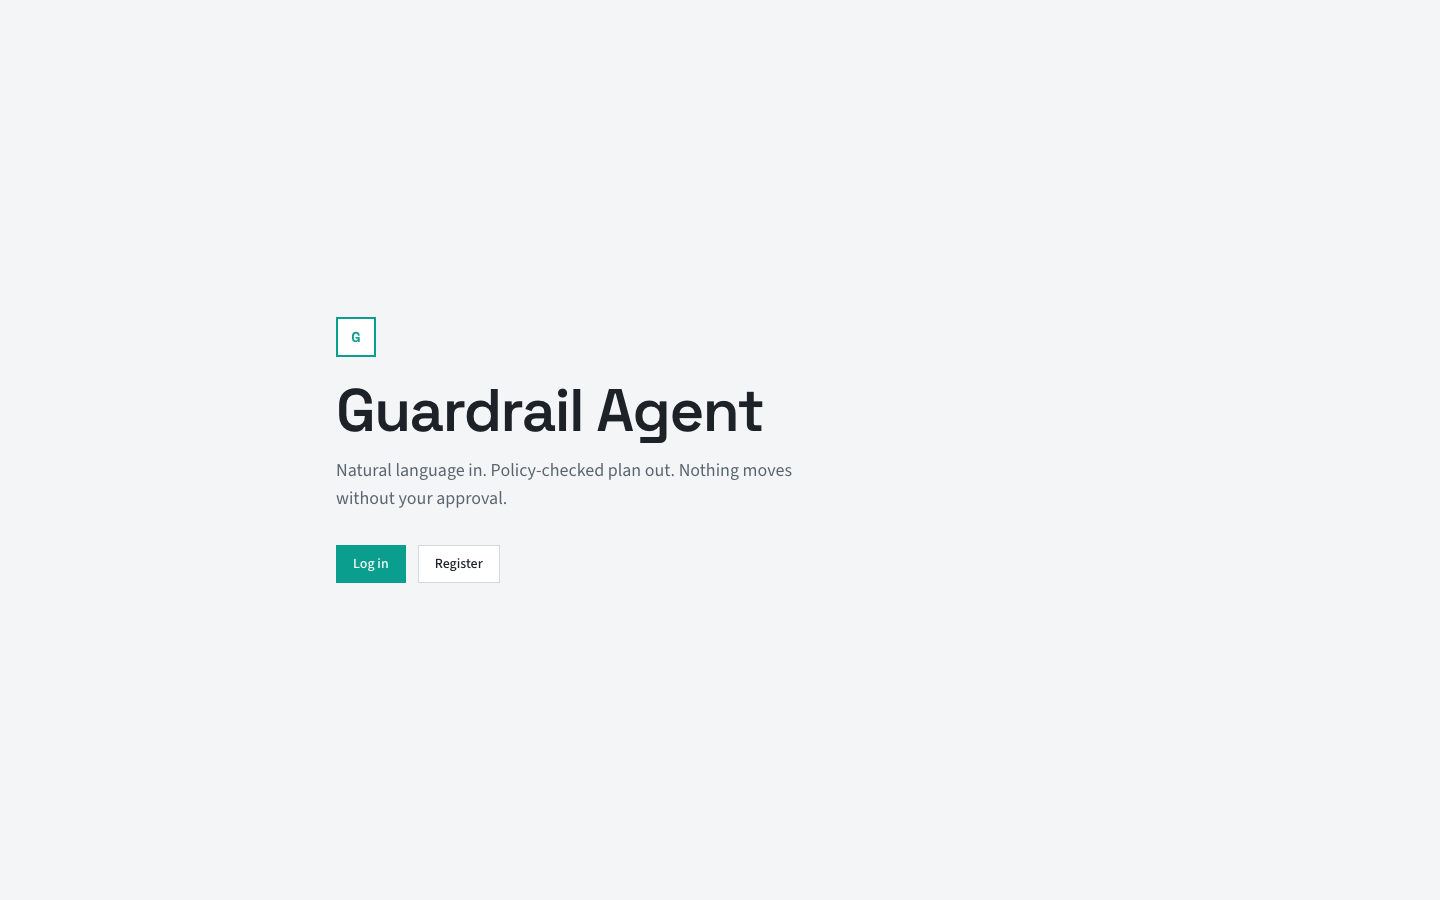
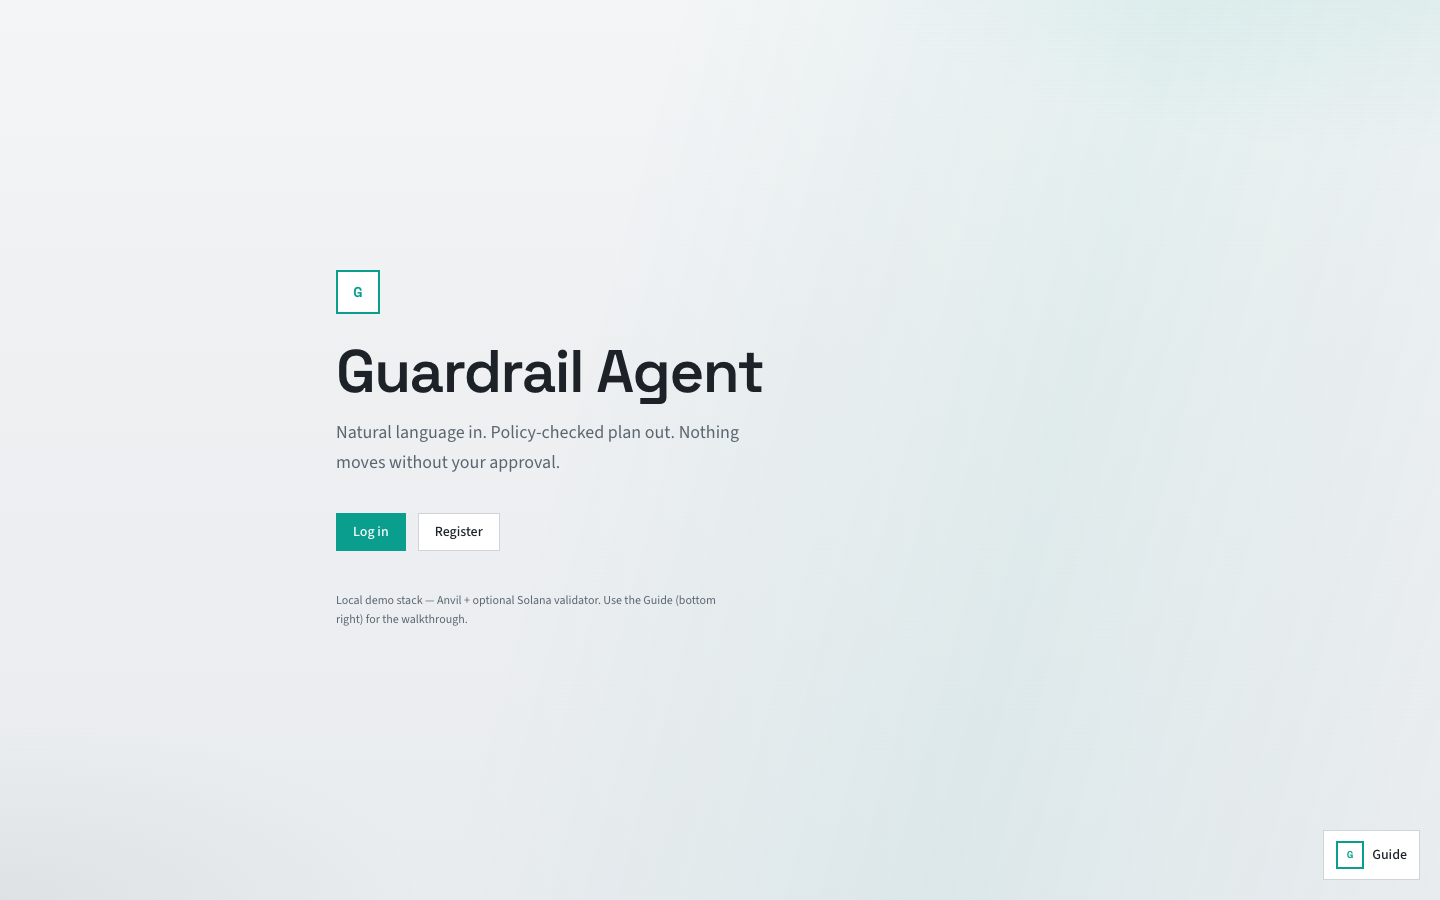
refresh demo screenshots and docs for v0.1.0
recapture ui against the control-plane polish, add guide frame, and document release notes plus troubleshooting.

diff --git a/docs/demo.md b/docs/demo.md
@@ -2,6 +2,8 @@
 
 Local-only walkthrough. Budget about three minutes for an interviewer.
 
+**Release:** [v0.1.0](https://github.com/o-mid/guardrail-agent/releases/tag/v0.1.0) — MVP demo pack (docs, SIWE/nonce fixes, richer UI, operator guide).
+
 ## Run locally
 
 ```bash
@@ -39,39 +41,48 @@ Endpoints:
 
 Created by `npm run seed`. You can register a new account instead; seed also ensures global policy v1 exists.
 
+**Wallet shortcuts on Login:**
+
+- **Sign in with Anvil demo account** — SIWE using Anvil #0 (no MetaMask)
+- **Sign in with Ethereum** — MetaMask / injected wallet SIWE (domain comes from the API)
+
 Demo EVM signer is Anvil account #0 (`0xf39Fd6e51aad88F6F4ce6aB8827279cffFb92266`). Not a secret locally; still do not reuse on any public network.
+
+## Operator guide
+
+Bottom-right **Guide** panel walks the full loop (login → compose → accept → approve → reject → audit). Skip any step or skip the tour; reopen anytime from the same control.
 
 ## Interviewer script (< 3 min)
 
 **0:00 Login**
 
-Open http://localhost:3000, log in as demo user. Land on Compose.
+Open http://localhost:3000, log in as demo user (or Anvil demo). Land on Compose. Optional: open the Guide.
 
 **0:20 Accept path (EVM transfer)**
 
-- Click chip: `Send 5 MOCK_USDC to Alice`
-- Submit. Plan shows one transfer step to allowlisted address `0x1111...1111`.
-- Approve step 0. Point at tx hash on Anvil.
+- Click the underlined sentence: `Send 5 MOCK_USDC to Alice`
+- Create plan. Review decoded fields + live pipeline (pending → … → done).
+- Approve step 0. Point at tx hash.
 - One-liner: "Model output became JSON, policy allowlisted it, I clicked approve, API dry-ran then sent."
 
 **1:00 Reject path (infinite approve)**
 
-- Click chip: `Approve unlimited MOCK_USDC for 0xEvil`
-- Submit. Plan status is rejected. UI shows `infinite_approve` (and human message from policy).
+- Sentence: `Approve unlimited MOCK_USDC for 0xEvil`
+- Plan rejected. UI shows `infinite_approve`.
 - One-liner: "Max-uint approve passes schema but policy blocks it. No approve button, nothing hits the chain."
 
-**1:40 Optional: amount cap**
+**1:40 Optional: amount cap / swap**
 
-- Chip: `Transfer 1000 MOCK_USDC to Alice` shows `amount_over_cap` if you have time. Skip if tight.
+- `Transfer 1000 MOCK_USDC to Alice` → `amount_over_cap`
+- `Swap 10 MOCK_USDC for MOCK_ETH` → approve (executor does router approve + swap; nonces are serialized)
 
 **2:00 Solana (optional)**
 
-- Chip: `Send 0.1 SOL to Bob`
-- Approve. Show signature from local validator.
+- `Send 0.1 SOL to Bob` → approve → local validator signature
 
 **2:30 Audit**
 
-- Open Audit page. Filter shows `intent.received`, `plan.awaiting_approval` or `plan.rejected_policy`, `step.succeeded`, etc.
+- Open Audit. Filters for rejects / success / steps. Open feed from a plan event.
 - One-liner: "Every decision is logged. Rejects are first-class, not errors."
 
 **2:50 Close**
@@ -80,13 +91,11 @@ Open http://localhost:3000, log in as demo user. Land on Compose.
 
 ## Screenshots
 
-Captured against a local stack. Paths under `docs/demo/screenshots/`.
-
-Regenerate (web + API up; needs system Chrome):
+Captured against a local stack (`docs/demo/screenshots/`). Regenerate with web + API up (needs system Chrome):
 
 ```bash
 ./scripts/terminal-demo.sh          # API transcript → docs/demo/terminal.md
-node scripts/capture-demo.mjs       # UI shots as demo user
+node scripts/capture-demo.mjs       # UI shots as demo user (+ guide frame)
 ```
 
 ### Landing / auth
@@ -107,33 +116,39 @@ node scripts/capture-demo.mjs       # UI shots as demo user
 
 ![Step succeeded](demo/screenshots/07-step-succeeded.png)
 
-### Audit
+### Audit + guide
 
 ![Audit timeline](demo/screenshots/08-audit.png)
+
+![Operator guide](demo/screenshots/09-operator-guide.png)
 
 ## Terminal capture
 
 API-side accept/reject transcript (no browser): [docs/demo/terminal.md](demo/terminal.md).
 
-## Compose chips (reference)
+## Example intents (reference)
 
-Seed prints these; they map to MockPlanner keywords:
-
-| Chip | Expected outcome |
-|------|------------------|
+| Intent | Expected outcome |
+|--------|------------------|
 | `Send 5 MOCK_USDC to Alice` | Pass policy, approve, Anvil tx |
-| `Swap 10 MOCK_USDC for MOCK_ETH` | Pass policy, single approve; executor handles router approve internally |
+| `Send 25 MOCK_USDC to Alice` | Pass (under cap 100) |
+| `Swap 10 MOCK_USDC for MOCK_ETH` | Pass; executor approve + swap |
+| `Approve 50 MOCK_USDC for the router` | Finite approve, await HITL |
+| `Send 0.1 SOL to Bob` | Solana local transfer |
 | `Approve unlimited MOCK_USDC for 0xEvil` | `infinite_approve` reject |
-| `Send 0.1 SOL to Bob` | Pass policy, Solana transfer |
 | `Transfer 1000 MOCK_USDC to Alice` | `amount_over_cap` reject |
+| `Send 5 MOCK_USDC to 0xEvil` | recipient not allowlisted |
 
 ## Troubleshooting
 
 | Symptom | Fix |
 |---------|-----|
 | Mongo exits on Colima | Already on tmpfs in compose; pull latest `deploy/docker-compose.yml` |
+| EVM `nonce too low` | Update to v0.1.0+ executor (raw pending nonce + send lock) |
+| SIWE `siwe_failed` / domain mismatch | API must allow `localhost:3000` and `127.0.0.1:3000`; use Anvil demo button |
 | EVM tx fails unknown token | Re-run forge deploy; check `contracts/deployments/anvil.json` |
 | Policy connection refused | Wait for policy container healthy; check `POLICY_SERVICE_URL` |
 | 401 on API | Re-login; access token TTL is short |
+| CORS from `127.0.0.1` | Set `CORS_ORIGINS=http://localhost:3000,http://127.0.0.1:3000` |
 
 Do not point demo keys or compose defaults at mainnet or public RPCs.

diff --git a/docs/demo/terminal.md b/docs/demo/terminal.md
@@ -68,7 +68,7 @@ curl -s -X POST http://127.0.0.1:8080/api/intents -H "authorization: Bearer $TOK
 
 ```json
 {
-  "plan_id": "6a6daf583513e932f7fea9d6",
+  "plan_id": "6a6f100b8af991ff283e8885",
   "plan_status": "awaiting_approval",
   "summary": "Transfer 5 MOCK_USDC to allowlisted recipient",
   "chain": "anvil",
@@ -93,7 +93,7 @@ curl -s -X POST http://127.0.0.1:8080/api/plans/$PLAN_ID/steps/0/approve \
 {
   "plan_status": "completed",
   "step_status": "succeeded",
[2 lines of base64/hex data omitted]
   "dryRunOk": true
 }
 ```
@@ -107,43 +107,43 @@ curl -s "http://127.0.0.1:8080/api/audit?limit=8" -H "authorization: Bearer $TOK
 [
   {
     "type": "plan.completed",
-    "entityId": "6a6daf583513e932f7fea9d6",
-    "createdAt": "2026-08-01T08:33:28.604Z"
+    "entityId": "6a6f100b8af991ff283e8885",
+    "createdAt": "2026-08-02T09:38:24.073Z"
   },
   {
     "type": "step.succeeded",
-    "entityId": "6a6daf583513e932f7fea9d6",
-    "createdAt": "2026-08-01T08:33:28.591Z"
+    "entityId": "6a6f100b8af991ff283e8885",
+    "createdAt": "2026-08-02T09:38:24.064Z"
   },
   {
     "type": "step.approved",
-    "entityId": "6a6daf583513e932f7fea9d6",
-    "createdAt": "2026-08-01T08:33:28.366Z"
+    "entityId": "6a6f100b8af991ff283e8885",
+    "createdAt": "2026-08-02T09:38:19.949Z"
   },
   {
     "type": "plan.awaiting_approval",
-    "entityId": "6a6daf583513e932f7fea9d6",
-    "createdAt": "2026-08-01T08:33:28.280Z"
+    "entityId": "6a6f100b8af991ff283e8885",
+    "createdAt": "2026-08-02T09:38:19.858Z"
   },
   {
     "type": "intent.received",
-    "entityId": "6a6daf583513e932f7fea9d0",
-    "createdAt": "2026-08-01T08:33:28.266Z"
+    "entityId": "6a6f100b8af991ff283e887f",
+    "createdAt": "2026-08-02T09:38:19.840Z"
   },
   {
     "type": "plan.rejected_policy",
-    "entityId": "6a6daf583513e932f7fea9cb",
-    "createdAt": "2026-08-01T08:33:28.221Z"
+    "entityId": "6a6f100b8af991ff283e887a",
+    "createdAt": "2026-08-02T09:38:19.774Z"
   },
   {
     "type": "intent.received",
-    "entityId": "6a6daf583513e932f7fea9c4",
-    "createdAt": "2026-08-01T08:33:28.207Z"
+    "entityId": "6a6f100b8af991ff283e8873",
+    "createdAt": "2026-08-02T09:38:19.739Z"
   },
   {
-    "type": "plan.rejected_policy",
-    "entityId": "6a6daf4a3513e932f7fea9bc",
-    "createdAt": "2026-08-01T08:33:14.227Z"
+    "type": "plan.awaiting_approval",
+    "entityId": "6a6e35da8af991ff283e87d0",
+    "createdAt": "2026-08-01T18:07:22.384Z"
   }
 ]
 ```

diff --git a/docs/CHANGELOG.md b/docs/CHANGELOG.md
@@ -1,0 +1,24 @@
+# Changelog
+
+## v0.1.0 — 2026-08-02
+
+First tagged MVP release for interview demos.
+
+### Docs
+- Architecture, process, threat model, and demo walkthrough
+- Terminal transcript + UI screenshot pack (including operator guide)
+
+### Reliability
+- SIWE domain aligned with browser origin (`localhost:3000` / `127.0.0.1:3000`)
+- Anvil nonce races fixed (raw pending nonce, serialized sends, atomic step claim)
+- API lockfile uuid override sync for CI `npm ci`
+
+### Product UI
+- Compose: sentence examples, live step pipelines, payload detail, SSE updates
+- Audit: filters, summary counts, expandable events
+- Operator guide (bottom-right, skippable tour)
+- Control-plane visual polish (brand mark, atmosphere, shared page header)
+
+### Limits
+- Local Anvil / solana-test-validator only
+- MockPlanner default; not production-ready (see threat model)

diff --git a/README.md b/README.md
@@ -4,12 +4,15 @@ Natural-language chain intent, schema-checked plan, Go policy gate, human approv
 
 Model output never becomes raw calldata or instruction bytes. Reject paths are part of the product, not edge cases.
 
+**Latest release:** [v0.1.0](https://github.com/o-mid/guardrail-agent/releases/tag/v0.1.0) · [Changelog](docs/CHANGELOG.md)
+
 ## Docs
 
 - [Architecture](docs/architecture.md) - components, trust boundaries, data model
 - [Process](docs/process.md) - happy path, rejects, state machines, audit events
-- [Demo](docs/demo.md) - local setup and interviewer script
+- [Demo](docs/demo.md) - local setup, interviewer script, screenshots
 - [Threat model](docs/threat-model.md) - assets, controls, residual risk
+- [Changelog](docs/CHANGELOG.md)
 
 ## Stack
 

diff --git a/docs/demo-script.md b/docs/demo-script.md
@@ -5,9 +5,10 @@ Full setup, interviewer script, screenshots, and terminal transcript: [demo.md](
 Short path:
 
 1. Bring up stack + seed (see demo.md).
-2. Login `demo@guardrail.local` / `demopass123`.
+2. Login `demo@guardrail.local` / `demopass123` (or Anvil demo SIWE).
 3. Accept: `Send 5 MOCK_USDC to Alice` → Approve → show Anvil tx.
 4. Reject: `Approve unlimited MOCK_USDC for 0xEvil` → `infinite_approve`.
-5. Optional: Solana chip + Audit page.
+5. Optional: swap / Solana sentence + Audit page.
+6. Optional: walk the bottom-right Guide.
 
 Local / mock chains only. Do not point demo keys at mainnet.
